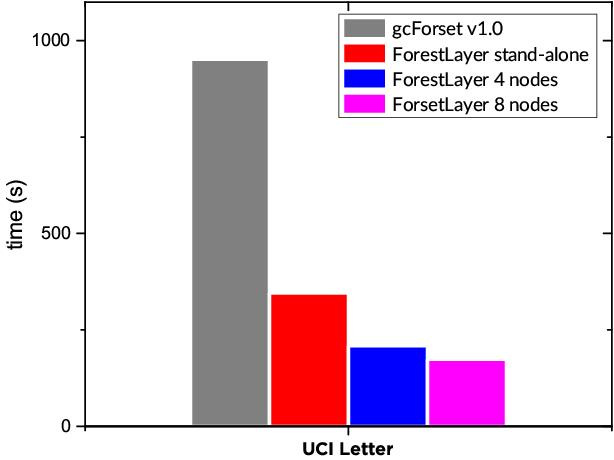
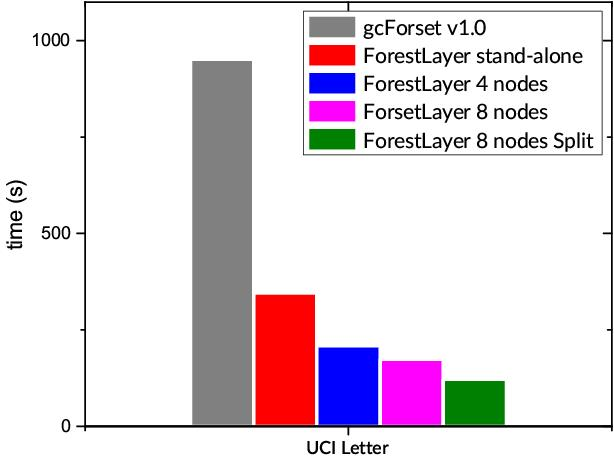
[2018.02.01 10:58] change performance figure

Changed region(s): [[0.4951, 0.0, 0.9902, 0.3652], [0.4951, 0.6391, 0.8355, 1.0], [0.4023, 0.1217, 0.4642, 0.9435]]

diff --git a/README.md b/README.md
@@ -16,6 +16,7 @@ You can refer to [Deep Forest Paper](https://arxiv.org/abs/1702.08835), [Ray Pro
 
 ## News
 
+* [1 Feb] Forest Splitting mechanism are supported. Now ForestLayer can achieve 2.5x speedup to gcForest v1.0 with 8 nodes.
 * [10 Jan] You can now use ForestLayer for classification and regression task. And you can use it in your data science algorithm competitions! We recommend using small layer of cascade in regression task since it's easy to overfit the data.
 * [8 Jan] You can now use ForestLayer for classification task. See [examples](https://github.com/whatbeg/forestlayer/tree/master/examples)
 
@@ -140,26 +141,30 @@ Note that the models of all experiments contain the same structures, and have a 
 
 *Table. 1: Performance on UCI Adult dataset.*
 
-|  conf                   | test acc  | layer-best | avg time of 3 tries |
-| :---:                   | :-----:   |  :----:    | :------:     |
-| gcForest v1.0           | 86.143%    | 6-1        |  647s        |
-| ForestLayer             | 86.143%    | 6-1        |  646s        |
-| ForestLayer Standalone  | 86.143%    | 6-1        |  279s        |
-| ForestLayer 2 nodes     | 86.143%    | 6-1        |  190s        |
-| ForestLayer 4 nodes     | 86.143%    | 6-1        |  149s        |
-| ForestLayer 8 nodes     | 86.143%    | 6-1        |  116s        |
+|  conf                     | test acc   | layer-best | avg time of 3 tries |
+| :---:                     | :-----:    |  :----:    | :------:     |
+| gcForest v1.0             | 86.143%    | 6-1        |  647s        |
+| ForestLayer               | 86.143%    | 6-1        |  646s        |
+| ForestLayer Standalone    | 86.143%    | 6-1        |  279s        |
+| ForestLayer 2 nodes       | 86.143%    | 6-1        |  190s        |
+| ForestLayer 4 nodes       | 86.143%    | 6-1        |  149s        |
+| ForestLayer 8 nodes       | 86.143%    | 6-1        |  116s        |
+| ForestLayer 8 nodes Split | 86.143%    | 6-1        |  91s         |
 
 <div align="center">
     <img src="docs/imgs/mnist_perf.jpg" width="36%" height="24%"/>&nbsp;&nbsp;&nbsp;&nbsp;&nbsp;&nbsp;&nbsp;&nbsp;&nbsp;&nbsp;&nbsp;&nbsp;&nbsp;&nbsp;&nbsp;&nbsp;&nbsp;&nbsp;&nbsp;&nbsp;&nbsp;<img src="docs/imgs/letter_perf.jpg" width="36%" height="24%"/>
-    <p><i>Figure 1. MNIST performance. (1.5x)&nbsp;&nbsp;&nbsp;&nbsp;&nbsp;&nbsp;&nbsp;&nbsp;&nbsp;&nbsp;&nbsp;&nbsp;&nbsp;&nbsp;&nbsp;&nbsp;&nbsp;&nbsp;&nbsp;&nbsp;&nbsp;&nbsp;&nbsp;&nbsp;&nbsp;&nbsp;&nbsp;&nbsp;&nbsp;&nbsp;&nbsp;&nbsp; Fig. 2 UCI Letter performance. (5.5x)</i></p>
+    <p><i>Figure 1. MNIST performance. (2.5x)&nbsp;&nbsp;&nbsp;&nbsp;&nbsp;&nbsp;&nbsp;&nbsp;&nbsp;&nbsp;&nbsp;&nbsp;&nbsp;&nbsp;&nbsp;&nbsp;&nbsp;&nbsp;&nbsp;&nbsp;&nbsp;&nbsp;&nbsp;&nbsp;&nbsp;&nbsp;&nbsp;&nbsp;&nbsp;&nbsp;&nbsp;&nbsp; Fig. 2 UCI Letter performance. (7.8x)</i></p>
 	<img src="docs/imgs/adult_perf.jpg" width="36%" height="24%"/>&nbsp;&nbsp;&nbsp;&nbsp;&nbsp;&nbsp;&nbsp;&nbsp;&nbsp;&nbsp;&nbsp;&nbsp;&nbsp;&nbsp;&nbsp;&nbsp;&nbsp;&nbsp;&nbsp;&nbsp;&nbsp;<img src="docs/imgs/imdb_perf.jpg" width="36%" height="24%"/>
-	<p><i>Fig. 3 UCI Adult performance. (5.6x)&nbsp;&nbsp;&nbsp;&nbsp;&nbsp;&nbsp;&nbsp;&nbsp;&nbsp;&nbsp;&nbsp;&nbsp;&nbsp;&nbsp;&nbsp;&nbsp;&nbsp;&nbsp;&nbsp;&nbsp;&nbsp;&nbsp;&nbsp;&nbsp;&nbsp;&nbsp;&nbsp;&nbsp;&nbsp;&nbsp;&nbsp;&nbsp; Fig. 4 IMDB performance. (2.1x)</i></p>
+	<p><i>Fig. 3 UCI Adult performance. (7.1x)&nbsp;&nbsp;&nbsp;&nbsp;&nbsp;&nbsp;&nbsp;&nbsp;&nbsp;&nbsp;&nbsp;&nbsp;&nbsp;&nbsp;&nbsp;&nbsp;&nbsp;&nbsp;&nbsp;&nbsp;&nbsp;&nbsp;&nbsp;&nbsp;&nbsp;&nbsp;&nbsp;&nbsp;&nbsp;&nbsp;&nbsp;&nbsp; Fig. 4 IMDB performance. (2.1x)</i></p>
+    <img src="docs/imgs/mnist_perf_detail.jpg" width="36%" height="24%"/>
+    <p><i>Fig. 5 MNIST performance details of layers. (2.5x)</i></p>
 </div>
 
 From the first 2 lines of the table, we can conclude that ForestLayer has no loss of training speed of gcForest v1.0, but possess much simpler user-friendly API instead of configuring the model structure in the model json file.
 
 And from all of the lines of the table, we can see, even in the Standalone mode, ForestLayer is **2.3x** faster than single machine implementation.
 In cluster mode with 8 nodes, we obtain **5.6x** speedup, which drastically accelerates the research and engineering procedure. With more nodes, the speedup will be so much better.
+After we add splitting feature, we achieve **7.1x** speedup compared to gcForest v1.0 or ForestLayer single machine version.
 
 More benchmarks and performance evaluations will be given later.
 
@@ -210,7 +215,7 @@ ForestLayer is released under the Apache 2.0 license.
 * [ ] More layers, including lambda layer.
 * [ ] Add model save and load mechanism
 * [ ] Load balancing
-* [ ] Forest splitting
+* [x] Forest splitting
 * [x] model.summary()
 * [x] Distributed training
 * [x] Add data save and load mechanism
